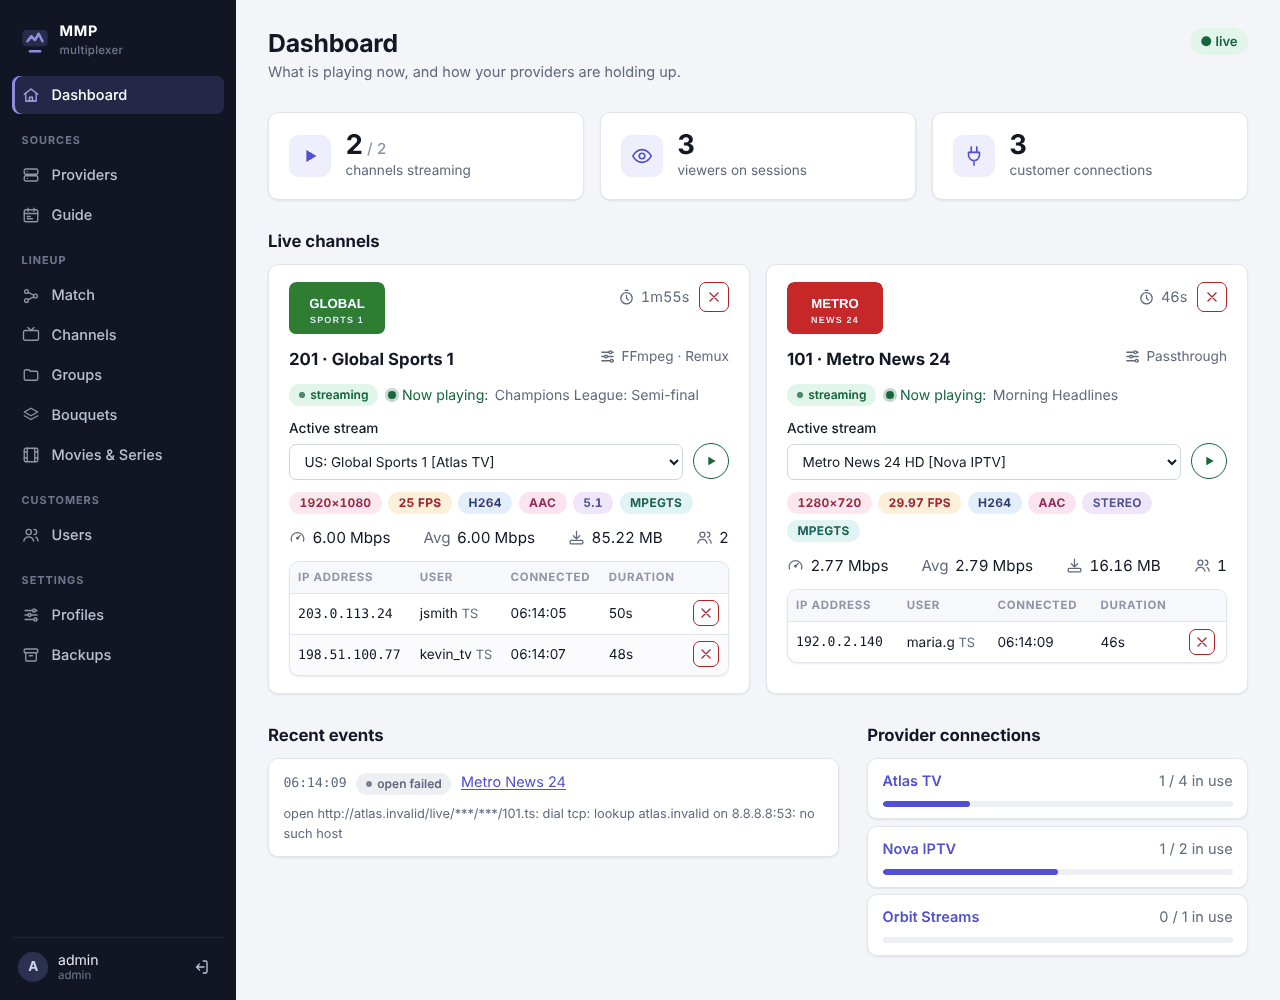
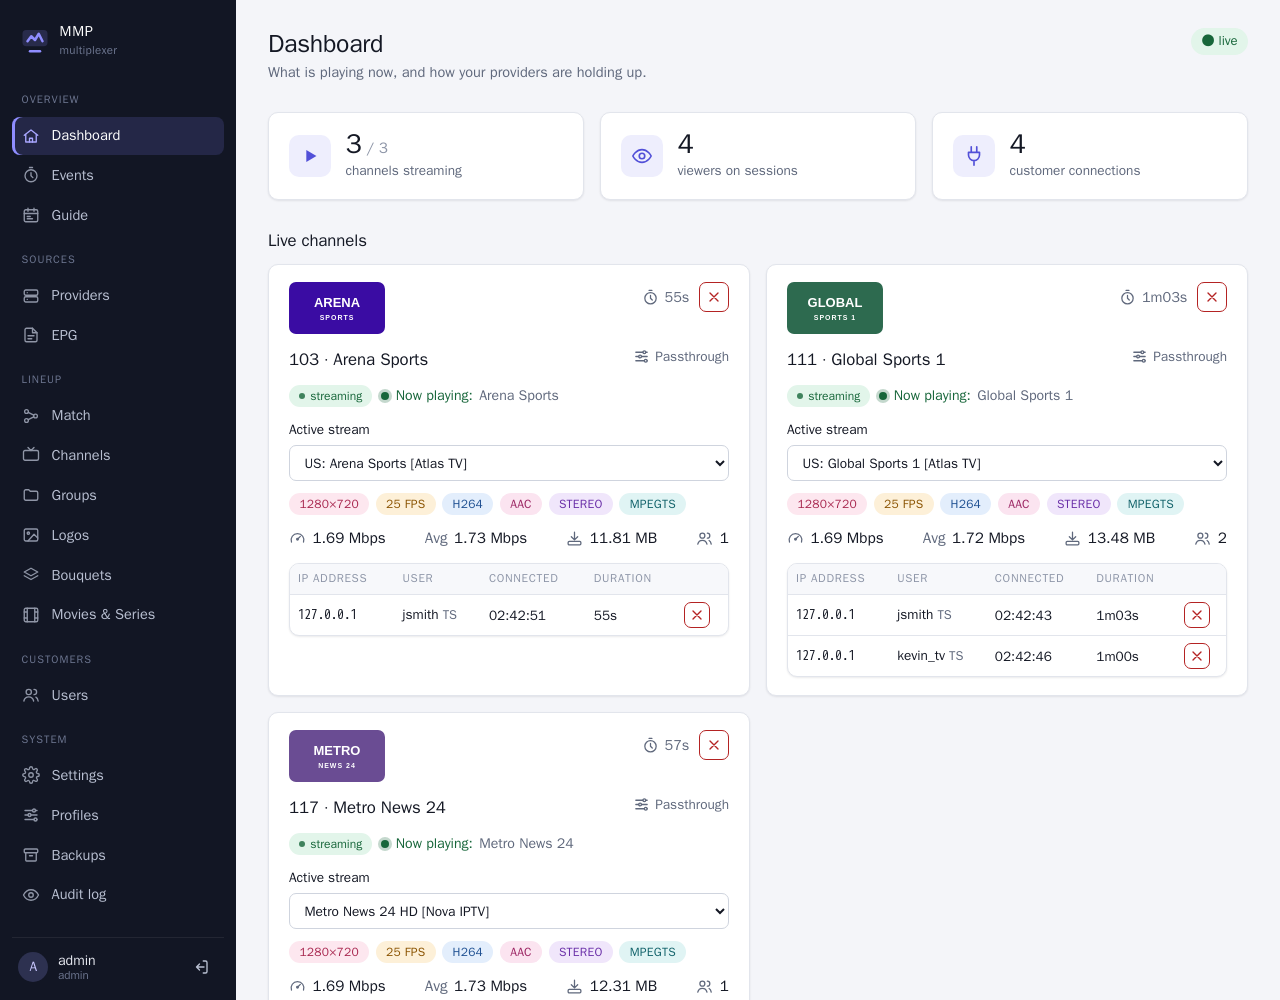
UI: shorter intros, Channels toolbar, new screenshots
Long page intros keep their first sentence; the rest moves word for word
into a How this works toggle. Channels gets one toolbar like Providers
(N selected, Sort A-Z on the right, select-all in the header). Phones get
a select-all box in the Channels and Providers toolbars. Match keeps each
stream's preview button on its line. README screenshots retaken from
invented data.

diff --git a/internal/web/templates/channels.html b/internal/web/templates/channels.html
@@ -1,6 +1,7 @@
 {{define "content"}}
 <div class="head">
-  <div><h1>Channels</h1><p class="lede">What customers watch. Each channel plays the first working stream of its failover list. Customers see a channel once it is in one of their <a href="/admin/bouquets">bouquets</a>.</p></div>
+  <div><h1>Channels</h1><p class="lede">What customers watch. Each channel plays the first working stream of its failover list. Customers see a channel once it is in one of their <a href="/admin/bouquets">bouquets</a>.</p>
+    <details class="help"><summary>How this works</summary><p>Drag rows (or use the arrows) to change the order customers see. The channels on this page swap their numbers between them, so filter to a group to arrange it without moving others. <strong>Sort A–Z</strong> sorts everything the list is filtered to, on all its pages.</p></details></div>
   <div class="row"><a class="button secondary" href="/admin/match">Build with Match</a><a class="button" href="/admin/channels/new">New channel</a></div>
 </div>
 {{with .Data.Flash}}<p class="flash" role="status">{{.}}</p>{{end}}
@@ -32,13 +33,9 @@
 </form>
 <form method="post" action="/admin/channels/group">
 <input type="hidden" name="q" value="{{.Query}}"><input type="hidden" name="group" value="{{.GroupID}}"><input type="hidden" name="bouquet" value="{{.BouquetID}}"><input type="hidden" name="offset" value="{{.Offset}}">
-<p class="hint">Drag rows (or use the arrows) to change the order customers see. The channels on this page swap their numbers between
-  them, so filter to a group to arrange it without moving others.
-  <button type="submit" class="small secondary" formaction="/admin/channels/sort-names" formnovalidate
-    title="Ignores the ticked boxes: sorts everything the list is filtered to, on all its pages"
-    data-confirm="Sort every channel in this list from A to Z, on all its pages? They swap the numbers they hold, so the order customers see changes, and the current order cannot be restored.">Sort A–Z</button></p>
 <div class="row bulk">
-  <label class="check small"><input type="checkbox" data-check-all="channel"> all on this page</label>
+  <span class="bulk-label" data-count-of="channel" data-count-label="selected">0 selected</span>
+  <label class="check small phone-only"><input type="checkbox" data-check-all="channel"> all on this page</label>
   <select name="to" aria-label="Move selected channels to" required>
     <option value="">Move selected to…</option>
     {{range .Groups}}<option value="{{.ID}}">group “{{.Name}}”</option>{{end}}
@@ -50,10 +47,13 @@
     title="Streams from preferred providers first; same-priority streams keep their order">Sort streams by provider</button>
   <button type="submit" class="small danger" formaction="/admin/channels/delete" formnovalidate
     data-confirm="Delete the selected channels? Their failover lists and bouquet places go with them; the streams stay at their providers, and Match can build them again.">Delete selected</button>
+  <span class="push"><button type="submit" class="small secondary" formaction="/admin/channels/sort-names" formnovalidate
+      title="Ignores the ticked boxes: sorts everything the list is filtered to, on all its pages"
+      data-confirm="Sort every channel in this list from A to Z, on all its pages? They swap the numbers they hold, so the order customers see changes, and the current order cannot be restored.">Sort A–Z</button></span>
 </div>
 <div class="table-wrap">
 <table class="stack">
-  <thead><tr><th class="check" aria-label="Select"></th><th class="grip-cell" aria-label="Order"></th><th class="num">#</th><th>Name</th><th>Group</th><th>tvg-id</th><th class="num">Streams</th><th class="num">Bouquets</th><th>Status</th></tr></thead>
+  <thead><tr><th class="check"><input type="checkbox" data-check-all="channel" aria-label="Select all on this page"></th><th class="grip-cell" aria-label="Order"></th><th class="num">#</th><th>Name</th><th>Group</th><th>tvg-id</th><th class="num">Streams</th><th class="num">Bouquets</th><th>Status</th></tr></thead>
   <tbody data-sortable data-sortable-submit="#reorder">
   {{range .Rows}}
   <tr{{if not .Enabled}} class="dim"{{end}}>

diff --git a/internal/web/static/app.css b/internal/web/static/app.css
@@ -110,6 +110,15 @@ main.center { flex: 1; display: grid; place-items: center; padding: 1.25rem; }
 .crumbs a { color: var(--muted); text-decoration: none; }
 .crumbs a:hover { color: var(--accent); text-decoration: underline; }
 .lede { color: var(--muted); max-width: 72ch; margin: 0 0 1.25rem; }
+/* details.help: the rest of a page's introduction, one click away. */
+.lede:has(+ details.help) { margin-bottom: .3rem; }
+details.help { max-width: 72ch; margin: 0 0 1.25rem; color: var(--muted); font-size: .88rem; }
+details.help > summary { display: inline-flex; align-items: center; gap: .35rem; margin: 0; color: var(--accent); font-size: .82rem; font-weight: 550; list-style: none; }
+details.help > summary::-webkit-details-marker { display: none; }
+details.help > summary::after { content: ""; width: .4rem; height: .4rem; border-right: 1.5px solid currentColor; border-bottom: 1.5px solid currentColor; transform: rotate(45deg) translateY(-2px); transition: transform .15s; }
+details.help[open] > summary::after { transform: rotate(-135deg) translateY(-1px); }
+details.help[open] > summary { margin-bottom: .35rem; }
+details.help p { margin: 0; }
 .head + .lede, h1 + .lede { margin-top: .15rem; }
 main.page > p.muted:first-of-type { max-width: 80ch; }
 
@@ -237,6 +246,7 @@ img.logo { width: 28px; height: 28px; object-fit: contain; vertical-align: middl
 td.name-col { min-width: 13rem; }
 .sub.url { overflow-wrap: normal; word-break: normal; white-space: nowrap; overflow: hidden; text-overflow: ellipsis; max-width: 22rem; }
 td.check, th.check { width: 1%; }
+label.phone-only { display: none; }
 /* Tables become stacked cards on phones. */
 @media (max-width: 700px) {
   table.stack thead { display: none; }
@@ -256,6 +266,8 @@ td.check, th.check { width: 1%; }
   table.stack td.cell-actions .actions { justify-content: flex-start; padding-top: .45rem; }
   table.stack .sub.url { max-width: 100%; }
   .table-wrap:has(table.stack) { overflow-x: visible; }
+  /* The header row (and its select-all box) is hidden: the toolbar offers one. */
+  label.phone-only { display: flex; }
 }
 
 /* ---------- Pills ---------- */
@@ -432,7 +444,8 @@ ul.plain-list { list-style: none; margin: 0; padding: 0; display: grid; gap: .25
 .proposal .name-edit { flex: 1; min-width: 0; font-weight: 600; padding: .25rem .5rem; min-height: 32px; }
 .proposal .streams { margin: 0; padding-left: 1.2rem; font-size: .87rem; }
 .proposal .streams li { margin: .12rem 0; }
-.proposal .streams label.check { gap: .45rem; }
+/* inline, so a stream's ▶ preview button stays on its line */
+.proposal .streams label.check { display: inline-flex; gap: .45rem; }
 .rules { margin-top: 2rem; }
 .rules summary { cursor: pointer; display: flex; gap: .75rem; align-items: baseline; }
 .rules summary h2 { display: inline; margin: 0; }
@@ -635,8 +648,9 @@ details.restore[open] .restore-form { position: absolute; right: 0; top: calc(10
 .bulk { padding: .45rem .6rem; margin-bottom: .6rem; border: 1px dashed var(--line-strong); border-radius: var(--radius-sm); gap: .45rem; font-size: .85rem; }
 .bulk select, .bulk input { min-height: 30px; padding: .25rem .5rem; font-size: .85rem; }
 .bulk-label { color: var(--faint); font-weight: 600; min-width: 5.5rem; }
-#providers:has(input[name=provider]:checked) .bulk { border-style: solid; border-color: var(--accent); background: var(--accent-soft); }
-#providers:has(input[name=provider]:checked) .bulk-label { color: var(--accent); }
+#providers:has(input[name=provider]:checked) .bulk, #channels:has(input[name=channel]:checked) .bulk { border-style: solid; border-color: var(--accent); background: var(--accent-soft); }
+#providers:has(input[name=provider]:checked) .bulk-label, #channels:has(input[name=channel]:checked) .bulk-label { color: var(--accent); }
+.bulk .push { margin-left: auto; }
 
 .providers-table td { vertical-align: top; }
 .providers-table td.check, .providers-table th.check { width: 1%; }

diff --git a/internal/web/templates/match.html b/internal/web/templates/match.html
@@ -1,9 +1,9 @@
 {{define "content"}}
 {{$d := .Data}}
 <div class="head"><div><h1>Match</h1>
-    <p class="lede">Match finds the same channel at your different providers and builds a channel with failover from them in one step.
-      Search or pick a provider group, check the suggestions, then apply. Too many regional groups? Choose each provider's
-      <a href="/admin/providers">Groups</a> first. Placeholder entries such as <code>##### ABC IDAHO #####</code> are left out.</p></div></div>
+    <p class="lede">Match finds the same channel at your different providers and builds a channel with failover from them in one step.</p>
+    <details class="help"><summary>How this works</summary><p>Search or pick a provider group, check the suggestions, then apply. Too many regional groups? Choose each provider's
+      <a href="/admin/providers">Groups</a> first. Placeholder entries such as <code>##### ABC IDAHO #####</code> are left out.</p></details></div></div>
 {{with $d.Flash}}<p class="flash" role="status">{{.}}</p>{{end}}
 {{with $d.Applied}}<p class="flash" role="status">Done: {{.Created}} channel{{if ne .Created 1}}s{{end}} created, {{.Attached}} stream{{if ne .Attached 1}}s{{end}} added{{with .Bouquets}}, all in bouquet{{if gt (len .) 1}}s{{end}} {{range $i, $b := .}}{{if $i}}, {{end}}“{{$b}}”{{end}}{{end}}.
   <a href="/admin/channels">View channels</a></p>{{end}}

diff --git a/internal/web/templates/epg.html b/internal/web/templates/epg.html
@@ -1,11 +1,11 @@
 {{define "content"}}
 {{$d := .Data}}
 <div class="head"><div><h1>EPG</h1>
-    <p class="lede">Program data comes from your providers: Xtream panels serve it themselves, M3U providers need an EPG URL.
-      A channel shows a guide when its <span class="mono">tvg-id</span> matches a channel id in a source. When several guides have it, the one
+    <p class="lede">Program data comes from your providers: Xtream panels serve it themselves, M3U providers need an EPG URL.</p>
+    <details class="help"><summary>How this works</summary><p>A channel shows a guide when its <span class="mono">tvg-id</span> matches a channel id in a source. When several guides have it, the one
       with the lowest priority number wins. A provider's guide uses the provider's priority unless you give it its own here, so you can
       rank guides without changing the failover order. Connections to the same service serve the same guide: turn off all but one
-      so it is downloaded and stored once.</p></div><a class="button secondary" href="#extra">Add a guide source</a></div>
+      so it is downloaded and stored once.</p></details></div><a class="button secondary" href="#extra">Add a guide source</a></div>
 {{with $d.Flash}}<p class="flash" role="status">{{.}}</p>{{end}}
 {{with $d.Share}}
 <div class="card creds">

diff --git a/internal/web/templates/provider_vod_categories.html b/internal/web/templates/provider_vod_categories.html
@@ -5,9 +5,10 @@
 {{template "provider-tabs" (provtabs $d.Provider.ID $d.Provider.Type "vod")}}
 {{with $d.Flash}}<p class="flash" role="status">{{.}}</p>{{end}}
 {{with $d.Error}}<p class="error" role="alert">{{.}}</p>{{end}}
-<p class="lede">Choose the categories you want from this provider. Titles in other categories are not imported, and their
+<p class="lede">Choose the categories you want from this provider.</p>
+<details class="help"><summary>How this works</summary><p>Titles in other categories are not imported, and their
   categories don't show up in <a href="/admin/vod">Movies &amp; series</a>, in <a href="/admin/bouquets">bouquets</a> or for
-  customers. Categories the provider adds later stay hidden until you tick them.</p>
+  customers. Categories the provider adds later stay hidden until you tick them.</p></details>
 <p class="muted small">Save hides titles outside the chosen categories at once. Save and import also imports the catalog
   now, which brings in titles from newly ticked categories. Type a language (e.g. English) in the filter, then
   “tick all shown”, to choose a whole language.</p>

diff --git a/internal/web/templates/backbone.html b/internal/web/templates/backbone.html
@@ -3,8 +3,9 @@
 <p class="crumbs"><a href="/admin/providers">Providers</a> /</p>
 <div class="head"><div><h1>{{$d.Name}} {{if $d.Health.Enough}}<span class="pill {{$d.Health.Tone}}">{{$d.Health.Value}}</span>{{end}}</h1>
     <p class="lede">{{$d.Health.Attempts}} stream attempts on this backbone in the last 7 days, {{$d.Health.Failures}} failed.
-      {{if not $d.Health.Enough}}Too few to score yet. {{end}}The score weighs recent attempts more (their weight halves every 6 hours),
-      counts a failure while playing double and probes half, so it can differ from the plain failure rate below.</p></div>
+      {{if not $d.Health.Enough}}Too few to score yet. {{end}}</p>
+    <details class="help"><summary>How this works</summary><p>The score weighs recent attempts more (their weight halves every 6 hours),
+      counts a failure while playing double and probes half, so it can differ from the plain failure rate below.</p></details></div>
   <a class="button secondary" href="/admin/providers?backbone={{$d.Name}}">Show its providers</a></div>
 
 <h2>Providers</h2>

diff --git a/internal/web/templates/provider_groups.html b/internal/web/templates/provider_groups.html
@@ -5,8 +5,9 @@
 {{template "provider-tabs" (provtabs $d.Provider.ID $d.Provider.Type "groups")}}
 {{with $d.Flash}}<p class="flash" role="status">{{.}}</p>{{end}}
 <p class="lede">Choose the groups you want from this provider. Only streams in the chosen groups show up in
-  <a href="/admin/match">Match</a> and when adding streams to a channel. Groups the provider adds later stay hidden until you
-  tick them. Channels that already use a stream keep it.</p>
+  <a href="/admin/match">Match</a> and when adding streams to a channel.</p>
+<details class="help"><summary>How this works</summary><p>Groups the provider adds later stay hidden until you
+  tick them. Channels that already use a stream keep it.</p></details>
 <p class="muted small">Save keeps the choice only. Save and match also builds channels from the chosen groups now, with the
   options on the <a href="/admin/settings">Settings</a> page, even when automatic matching is off. To pick channels one by one, use
   <a href="/admin/match">Match</a>.</p>

diff --git a/internal/web/templates/settings.html b/internal/web/templates/settings.html
@@ -2,8 +2,9 @@
 {{$d := .Data}}
 <div class="head">
   <div><h1>Settings</h1>
-    <p class="lede">Settings that apply while MMP runs, without a restart. They are stored with your data, so backups include them.
-      Values in <span class="mono">.env</span> or the config file are only used the first time MMP starts; after that, change them here.</p></div>
+    <p class="lede">Settings that apply while MMP runs, without a restart.</p>
+    <details class="help"><summary>How this works</summary><p>They are stored with your data, so backups include them.
+      Values in <span class="mono">.env</span> or the config file are only used the first time MMP starts; after that, change them here.</p></details></div>
 </div>
 <nav class="tabs page-index" aria-label="On this page" data-spy>
   <a href="#match">Automatic matching</a><a href="#prefixes">Name prefixes</a><a href="#nameguide">Guide from stream names</a><a href="#group-icons">Group icons</a><a href="#routes">Game routing</a><a href="#history">History</a>

diff --git a/internal/web/templates/guide.html b/internal/web/templates/guide.html
@@ -2,8 +2,9 @@
 {{$d := .Data}}
 <div class="head"><div><h1>Guide</h1>
     <p class="lede">The schedule each channel's customers get in their guide. Press ▶ beside a channel to watch it, a program for
-      its details. Empty rows have no guide: open the channel to set its <span class="mono">tvg-id</span>, or see the
-      <a href="/admin/epg">EPG</a> page for the sources.</p></div></div>
+      its details.</p>
+    <details class="help"><summary>How this works</summary><p>Empty rows have no guide: open the channel to set its <span class="mono">tvg-id</span>, or see the
+      <a href="/admin/epg">EPG</a> page for the sources.</p></details></div></div>
 <form class="search row" method="get" action="/admin/guide" hx-get="/admin/guide" hx-target="#guide-grid" hx-swap="outerHTML" hx-push-url="true"
   hx-trigger="input changed delay:300ms from:find input[type=search], change, submit">
   <input type="hidden" name="start" value="{{$d.StartUnix}}">

diff --git a/internal/web/templates/vpn.html b/internal/web/templates/vpn.html
@@ -3,8 +3,9 @@
 <div class="head">
   <div><h1>VPN</h1>
     <p class="lede">MMP reaches your providers (playlists, streams, guides, movies) through gluetun{{with $d.Settings.Provider}}
-      with <strong>{{.}}</strong>{{with $d.TypeLabel}} over {{.}}{{end}}{{end}}. If the tunnel goes down, gluetun blocks MMP's internet until it is back.
-      Players on your network still connect to MMP directly.</p></div>
+      with <strong>{{.}}</strong>{{with $d.TypeLabel}} over {{.}}{{end}}{{end}}.</p>
+    <details class="help"><summary>How this works</summary><p>If the tunnel goes down, gluetun blocks MMP's internet until it is back.
+      Players on your network still connect to MMP directly.</p></details></div>
   <form method="post" action="/admin/vpn/reconnect" data-confirm="Reconnect the VPN? Streams pause for a few seconds.">
     <button type="submit" class="secondary">Reconnect</button></form>
 </div>

diff --git a/internal/web/templates/channel_groups.html b/internal/web/templates/channel_groups.html
@@ -1,7 +1,8 @@
 {{define "content"}}
 {{$d := .Data}}
 <div class="head"><div><h1>Groups</h1>
-    <p class="lede">Groups are the categories customers see in their player, sorted by sort order then name. A channel without a group shows as “Uncategorized”. Which channels a customer gets is up to their <a href="/admin/bouquets">bouquets</a>; groups only arrange them.</p></div></div>
+    <p class="lede">Groups are the categories customers see in their player, sorted by sort order then name.</p>
+    <details class="help"><summary>How this works</summary><p>A channel without a group shows as “Uncategorized”. Which channels a customer gets is up to their <a href="/admin/bouquets">bouquets</a>; groups only arrange them.</p></details></div></div>
 {{with $d.Flash}}<p class="flash" role="status">{{.}}</p>{{end}}
 {{with $d.Error}}<p class="error" role="alert">{{.}}</p>{{end}}
 

diff --git a/internal/web/templates/audit.html b/internal/web/templates/audit.html
@@ -3,8 +3,9 @@
 <div class="head">
   <div><h1>Audit log</h1>
     <p class="lede">Who did what: admin sign-ins (and failed attempts), every change made in this admin or through the API, and
-      backup downloads. What was typed into forms, such as passwords, is never stored. Kept for the days set under
-      <a href="/admin/settings">Settings → History</a>.</p></div>
+      backup downloads.</p>
+    <details class="help"><summary>How this works</summary><p>What was typed into forms, such as passwords, is never stored. Kept for the days set under
+      <a href="/admin/settings">Settings → History</a>.</p></details></div>
 </div>
 <form class="search row" method="get" action="/admin/audit">
   <select name="admin" aria-label="Admin" data-autosubmit>
